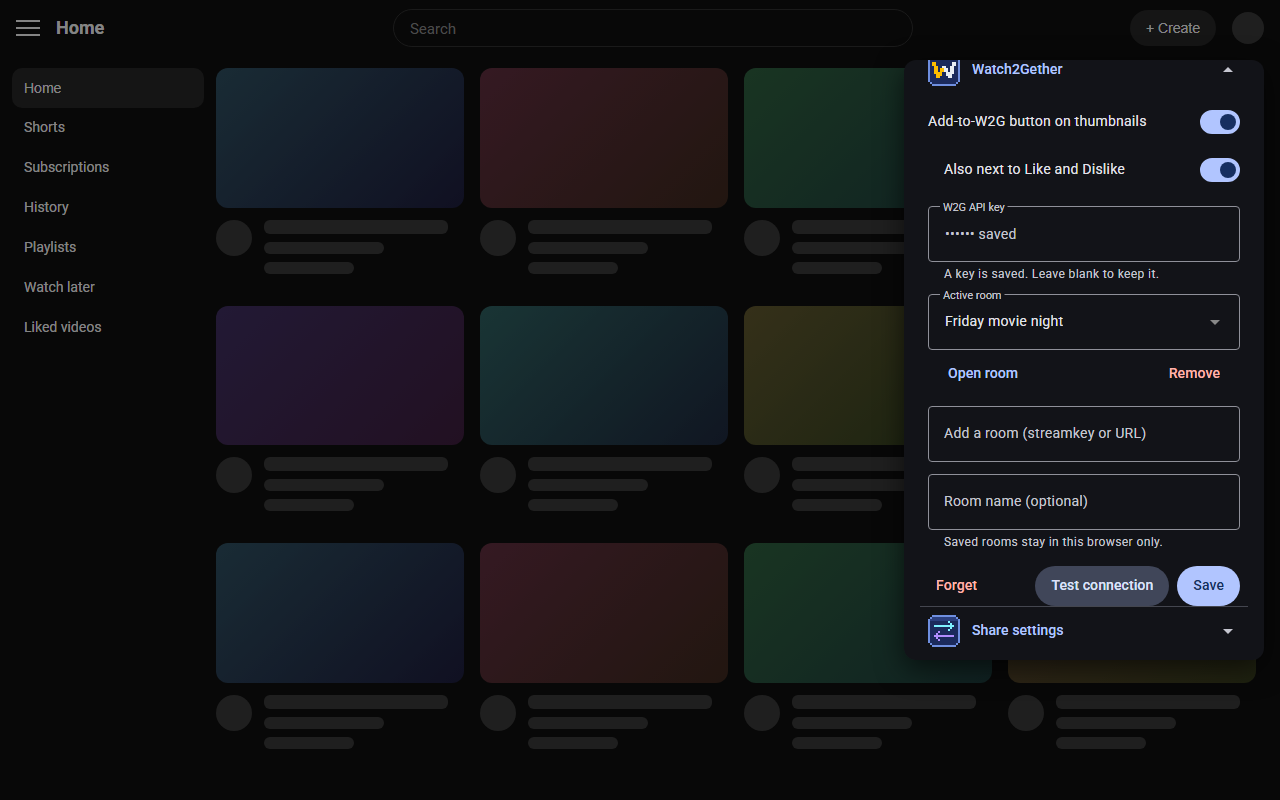
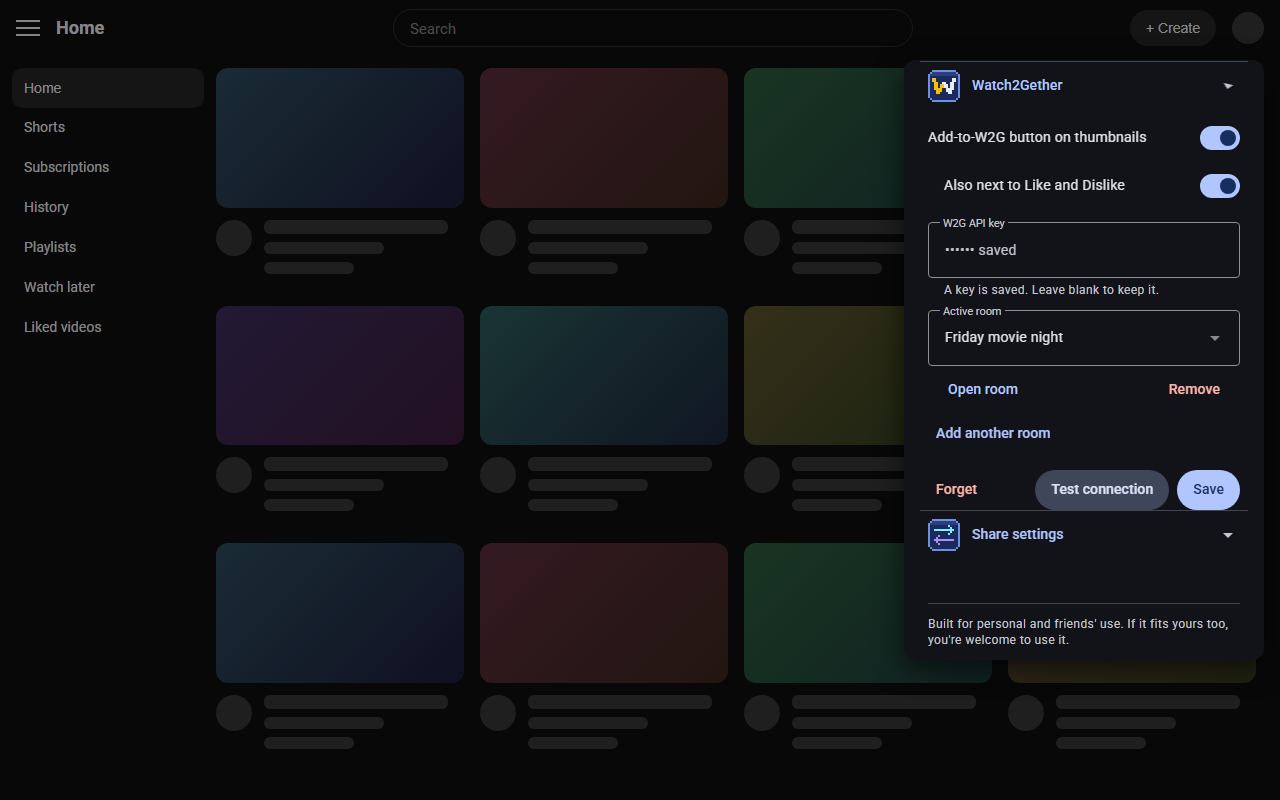
W2G: add-room form behind a button; remember and show the last failed add
- 'Add another room' reveals the room fields (they open by themselves only when there is no room yet)
- The service worker keeps the last failed add (lastError) and the popup shows it; errors stay on the button for 8s
- The network-failure message now points at the w2g.tv permission
- Verified the add path in Node with a stubbed chrome and mocked fetch

diff --git a/popup/popup.js b/popup/popup.js
@@ -90,6 +90,17 @@ async function loadRooms() {
   return { rooms, active: streamkey };
 }
 
+// The "add a room" form stays behind a button, except when there is no room yet and it is the only way forward
+function setAddRoomOpen(open) {
+  $('add-room').hidden = !open;
+  $('add-room-toggle').textContent = open ? 'Cancel' : 'Add another room';
+}
+
+const ago = (at) => {
+  const minutes = Math.round((Date.now() - at) / 60000);
+  return minutes < 1 ? 'just now' : minutes < 60 ? `${minutes} min ago` : `${Math.round(minutes / 60)} h ago`;
+};
+
 async function renderRoom() {
   const { apiKey } = await chrome.storage.local.get('apiKey');
   const { rooms, active } = await loadRooms();
@@ -102,6 +113,13 @@ async function renderRoom() {
   $('room-open').hidden = !active;
   $('room-open').href = active ? `https://w2g.tv/rooms/${active}` : '#';
   $('room-remove').hidden = !active;
+  $('add-room-toggle').hidden = !rooms.length;
+  if (!rooms.length) setAddRoomOpen(true);
+
+  // The last failed "add to W2G" (kept by the service worker), so the cause is readable after the button resets
+  const { lastError } = await chrome.storage.local.get('lastError');
+  $('last-error').hidden = !lastError;
+  if (lastError) $('last-error').textContent = `Last add failed ${ago(lastError.at)}: ${lastError.message}`;
 
   // The key is never shown back; blank means "keep the saved one".
   $('apiKey').placeholder = apiKey ? '•••••• saved' : ' ';
@@ -111,6 +129,8 @@ async function renderRoom() {
     ? 'A key is saved. Leave blank to keep it.'
     : 'From your Watch2Gether account\'s API page.';
 }
+
+$('add-room-toggle').addEventListener('click', () => setAddRoomOpen($('add-room').hidden));
 
 $('room-select').addEventListener('change', async () => {
   await chrome.storage.local.set({ streamkey: $('room-select').value });
@@ -145,6 +165,7 @@ $('save').addEventListener('click', async () => {
   }
   if (!Object.keys(update).length) return say('Nothing to save.', 'error');
   await chrome.storage.local.set(update);
+  if (update.streamkey) setAddRoomOpen(false); // the new room is saved and active; fold the form away again
   $('apiKey').value = '';
   $('room-input').value = '';
   $('room-name').value = '';

diff --git a/background/service-worker.js b/background/service-worker.js
@@ -24,13 +24,19 @@ async function oembedTitle(id) {
   }
 }
 
+// The last failed add is kept so the popup can show why (the button's message is gone after a few seconds)
+const fail = async (message) => {
+  await chrome.storage.local.set({ lastError: { message, at: Date.now() } });
+  return { status: 'error', message };
+};
+
 async function addVideo({ url, title }) {
   const { apiKey, streamkey } = await getSettings();
   if (!apiKey || !streamkey) {
-    return { status: 'error', message: 'Set API key and room in the extension popup.' };
+    return fail('Set API key and room in the extension popup.');
   }
   const id = canonicalId(url);
-  if (!id) return { status: 'error', message: 'Could not identify the video.' };
+  if (!id) return fail('Could not identify the video.');
 
   title = title?.trim() || (await oembedTitle(id));
   console.log('[Clean Subs] adding', id, 'with title:', title || '(none)');
@@ -49,12 +55,13 @@ async function addVideo({ url, title }) {
         : res.status === 404 ? 'Room not found (is this the streamkey?).' : '';
       const body = (await res.text().catch(() => '')).replace(/\s+/g, ' ').slice(0, 150);
       console.warn('[Clean Subs] add failed:', res.status, body);
-      return { status: 'error', message: `W2G returned ${res.status}. ${hint} ${body}`.trim() };
+      return fail(`W2G returned ${res.status}. ${hint} ${body}`.trim());
     }
   } catch (err) {
     console.warn('[Clean Subs] add failed:', err.name);
-    return { status: 'error', message: `Network error reaching W2G (${err.name}).` };
+    return fail(`Network error reaching W2G (${err.name}). Is access to w2g.tv granted? Turn the W2G switch off and on again.`);
   }
+  await chrome.storage.local.remove('lastError');
   return { status: 'added' };
 }
 

diff --git a/popup/popup.html b/popup/popup.html
@@ -125,19 +125,24 @@
           </div>
         </div>
 
-        <div class="field-wrap">
-          <label class="field">
-            <input id="room-input" type="text" spellcheck="false" placeholder=" ">
-            <span class="label">Add a room (streamkey or URL)</span>
-          </label>
+        <button id="add-room-toggle" class="text" type="button">Add another room</button>
+        <div id="add-room" hidden>
+          <div class="field-wrap">
+            <label class="field">
+              <input id="room-input" type="text" spellcheck="false" placeholder=" ">
+              <span class="label">Room streamkey or URL</span>
+            </label>
+          </div>
+          <div class="field-wrap">
+            <label class="field">
+              <input id="room-name" type="text" spellcheck="false" placeholder=" ">
+              <span class="label">Room name (optional)</span>
+            </label>
+            <p class="support">Saved rooms stay in this browser only.</p>
+          </div>
         </div>
-        <div class="field-wrap">
-          <label class="field">
-            <input id="room-name" type="text" spellcheck="false" placeholder=" ">
-            <span class="label">Room name (optional)</span>
-          </label>
-          <p class="support">Saved rooms stay in this browser only.</p>
-        </div>
+
+        <p class="support problem" id="last-error" hidden></p>
 
         <div class="actions">
           <button id="forget" class="text danger" type="button">Forget</button>

diff --git a/content/w2g/button.js b/content/w2g/button.js
@@ -3,7 +3,8 @@
   if (!adapter) return;
 
   const MARK = 'data-w2g-injected';
-  const RESULT_MS = 3000; // how long the result message stays before resetting
+  const RESULT_MS = 3000; // how long a result stays before the button resets
+  const ERROR_MS = 8000;  // errors stay longer: the tooltip carries the reason
   // Two-tone "W" mark with a "+" while idle. `ink` is the colour of the "+" and the second stroke of the W.
   const icon = (ink) => `<svg viewBox="0 0 36 24" width="30" height="20" fill="none" stroke-width="3.4"
     stroke-linecap="round" stroke-linejoin="round" aria-hidden="true">
@@ -168,7 +169,7 @@
         delete btn.dataset.busy;
         setState(state, title);
         clearTimeout(timer);
-        timer = setTimeout(() => setState('idle'), RESULT_MS);
+        timer = setTimeout(() => setState('idle'), state === 'error' ? ERROR_MS : RESULT_MS);
       };
       if (!video) return done('error', 'Could not find the video link.');
       btn.dataset.busy = '1';
@@ -253,7 +254,7 @@
         setState('idle');
         host.keepVisible = false;
         if (!pill && !target.matches(':hover')) host.style.display = 'none';
-      }, RESULT_MS);
+      }, state === 'error' ? ERROR_MS : RESULT_MS);
     }
 
     // Back to idle, e.g. when YouTube moves on to another video without reloading the page

diff --git a/popup/popup.css b/popup/popup.css
@@ -265,6 +265,8 @@ button.text.danger { color: var(--md-sys-color-error); }
 .detail .field { margin-top: 12px; }
 .detail .field:first-child { margin-top: 8px; }
 
+#add-room-toggle { margin: 4px 0 0 4px; }
+.support.problem { margin: 12px 8px 0; color: var(--md-sys-color-error); }
 .room-actions { display: flex; align-items: center; justify-content: space-between; margin: 4px 8px 0; }
 .text-link {
   display: inline-flex; align-items: center; height: 40px; padding: 0 12px;

diff --git a/AGENTS.md b/AGENTS.md
@@ -69,7 +69,11 @@ After a code change, reload the extension card and refresh YouTube.
 - `EFY.sanitize()` validates anything imported (known keys, types, clamped numbers, capped lists). Settings
   export/import deliberately excludes `w2g` (it depends on a per-browser permission) and never touches the
   key or rooms. sync items are limited to 8KB, so keyword/channel lists are capped at 100 entries.
-- W2G rooms are `rooms: [{ name, streamkey }]` plus the active `streamkey`, all in `chrome.storage.local`.
+- W2G rooms are `rooms: [{ name, streamkey }]` plus the active `streamkey`, all in `chrome.storage.local`. The popup keeps the
+  add-room form behind an "Add another room" button (it opens by itself only when there is no room yet). The service worker
+  stores the last failed add as `lastError: { message, at }` (cleared on the next success) and the popup shows it, because the
+  button's own message is only visible for a few seconds (errors 8s). The add path was tested in Node with a stubbed `chrome`
+  and mocked `fetch` (success, 403, network failure, no key, Shorts URL, non-video URL); never call the real W2G API with real keys.
   The service worker only reads `apiKey` and `streamkey`, so room switching just changes `streamkey`.
 - W2G **API key and rooms live in `chrome.storage.local`** and must never go to sync or into exported settings.
 - `storage` is the only install-time permission. The W2G hosts (`api.w2g.tv`, `w2g.tv`,

diff --git a/README.md b/README.md
@@ -50,7 +50,7 @@ no promise that every request will be added.
 
 1. Get an API key from your Watch2Gether account's API page.
 2. Open the extension popup and switch on **Add-to-W2G button**. Chrome asks for access to `w2g.tv`; this is requested only when you turn the feature on and is handed back when you turn it off.
-3. Paste your API key and your room's streamkey or URL, then **Save**. Add more rooms the same way and pick the active one from the list.
+3. Paste your API key and your room's streamkey or URL, then **Save**. Add more rooms with **Add another room** and pick the active one from the list. If an add ever fails, the Watch2Gether group in the popup shows why ("Last add failed...").
 
 Your API key and room stay in your browser's local extension storage and are never synced. "Forget saved key and room" in the popup removes them. See [PRIVACY.md](PRIVACY.md).
 
